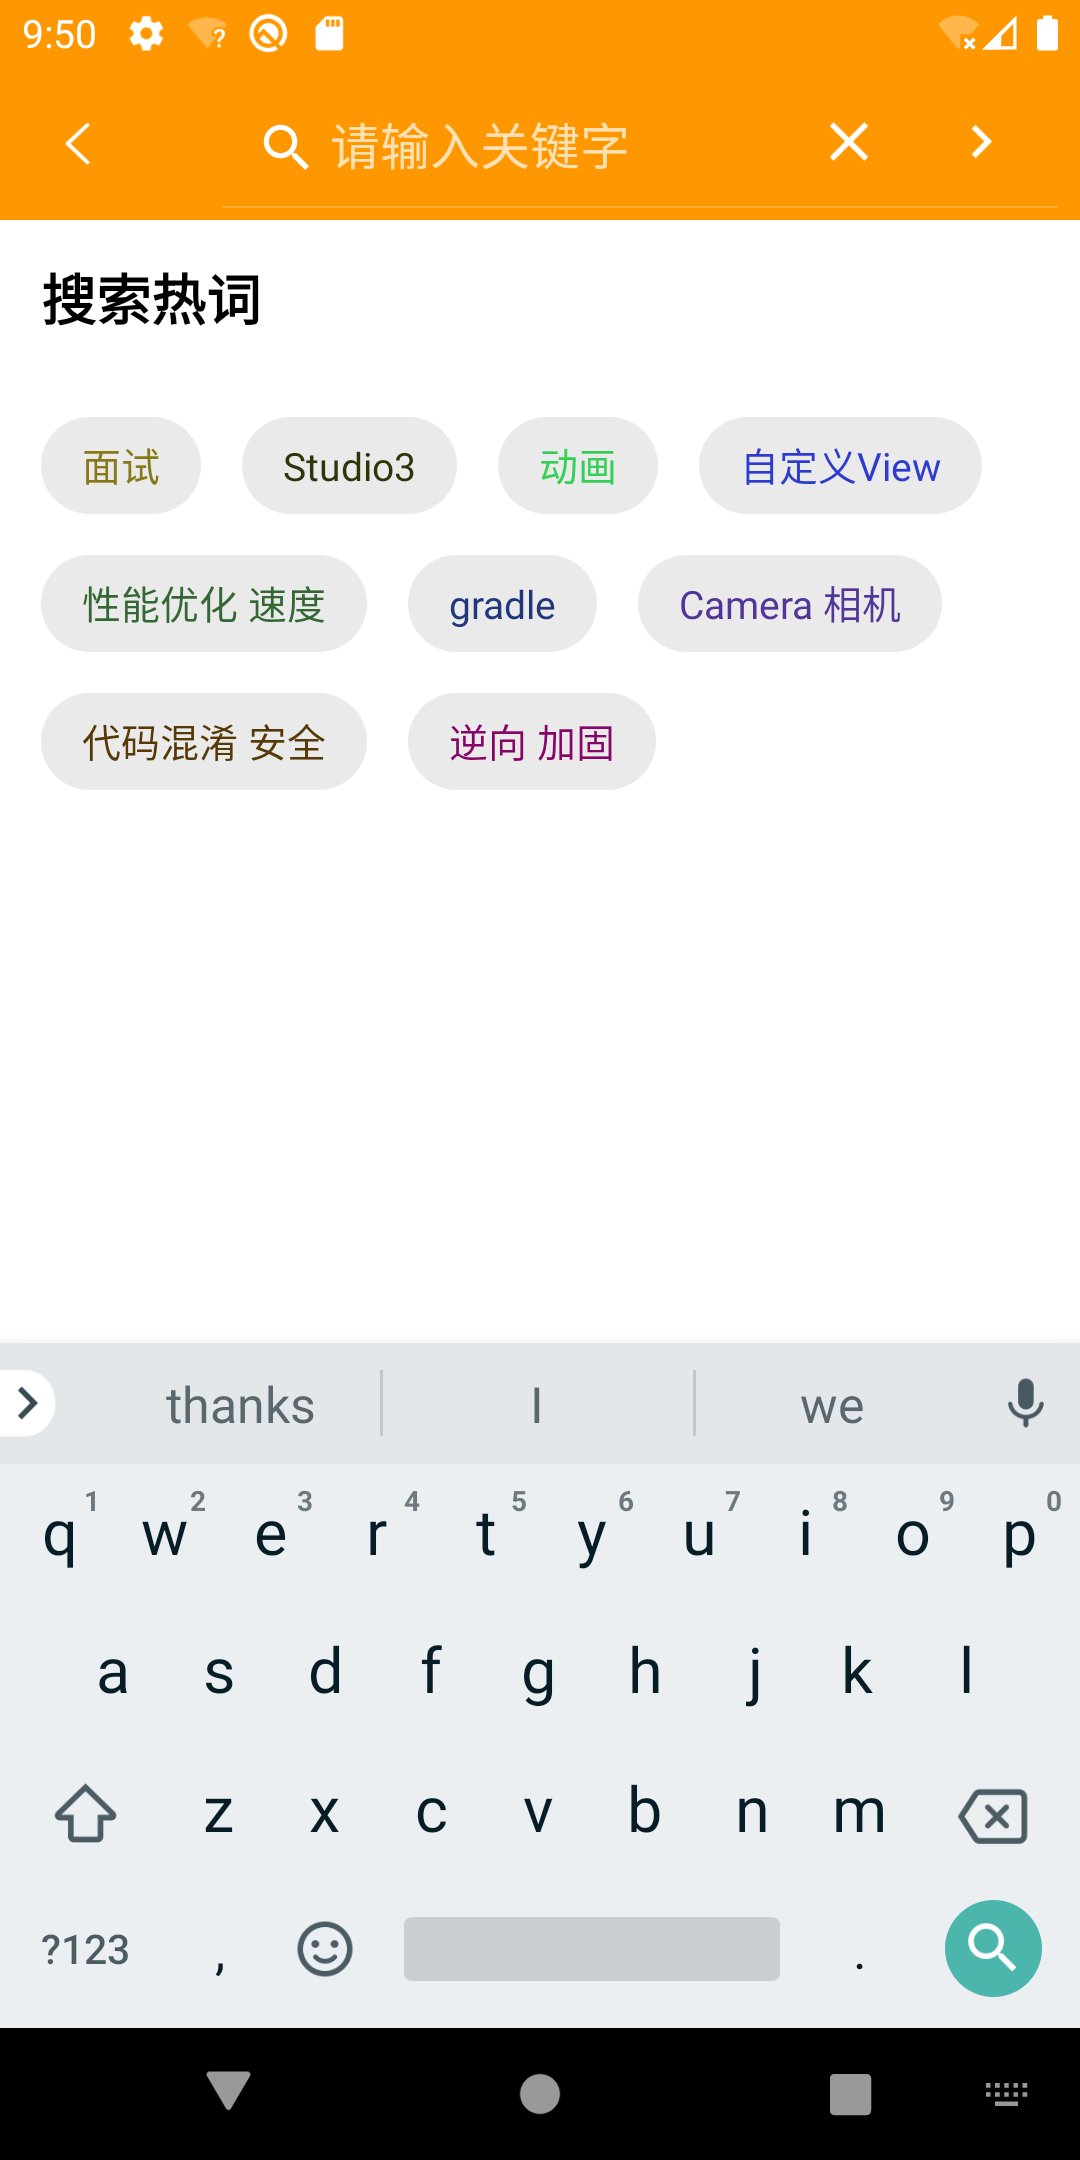
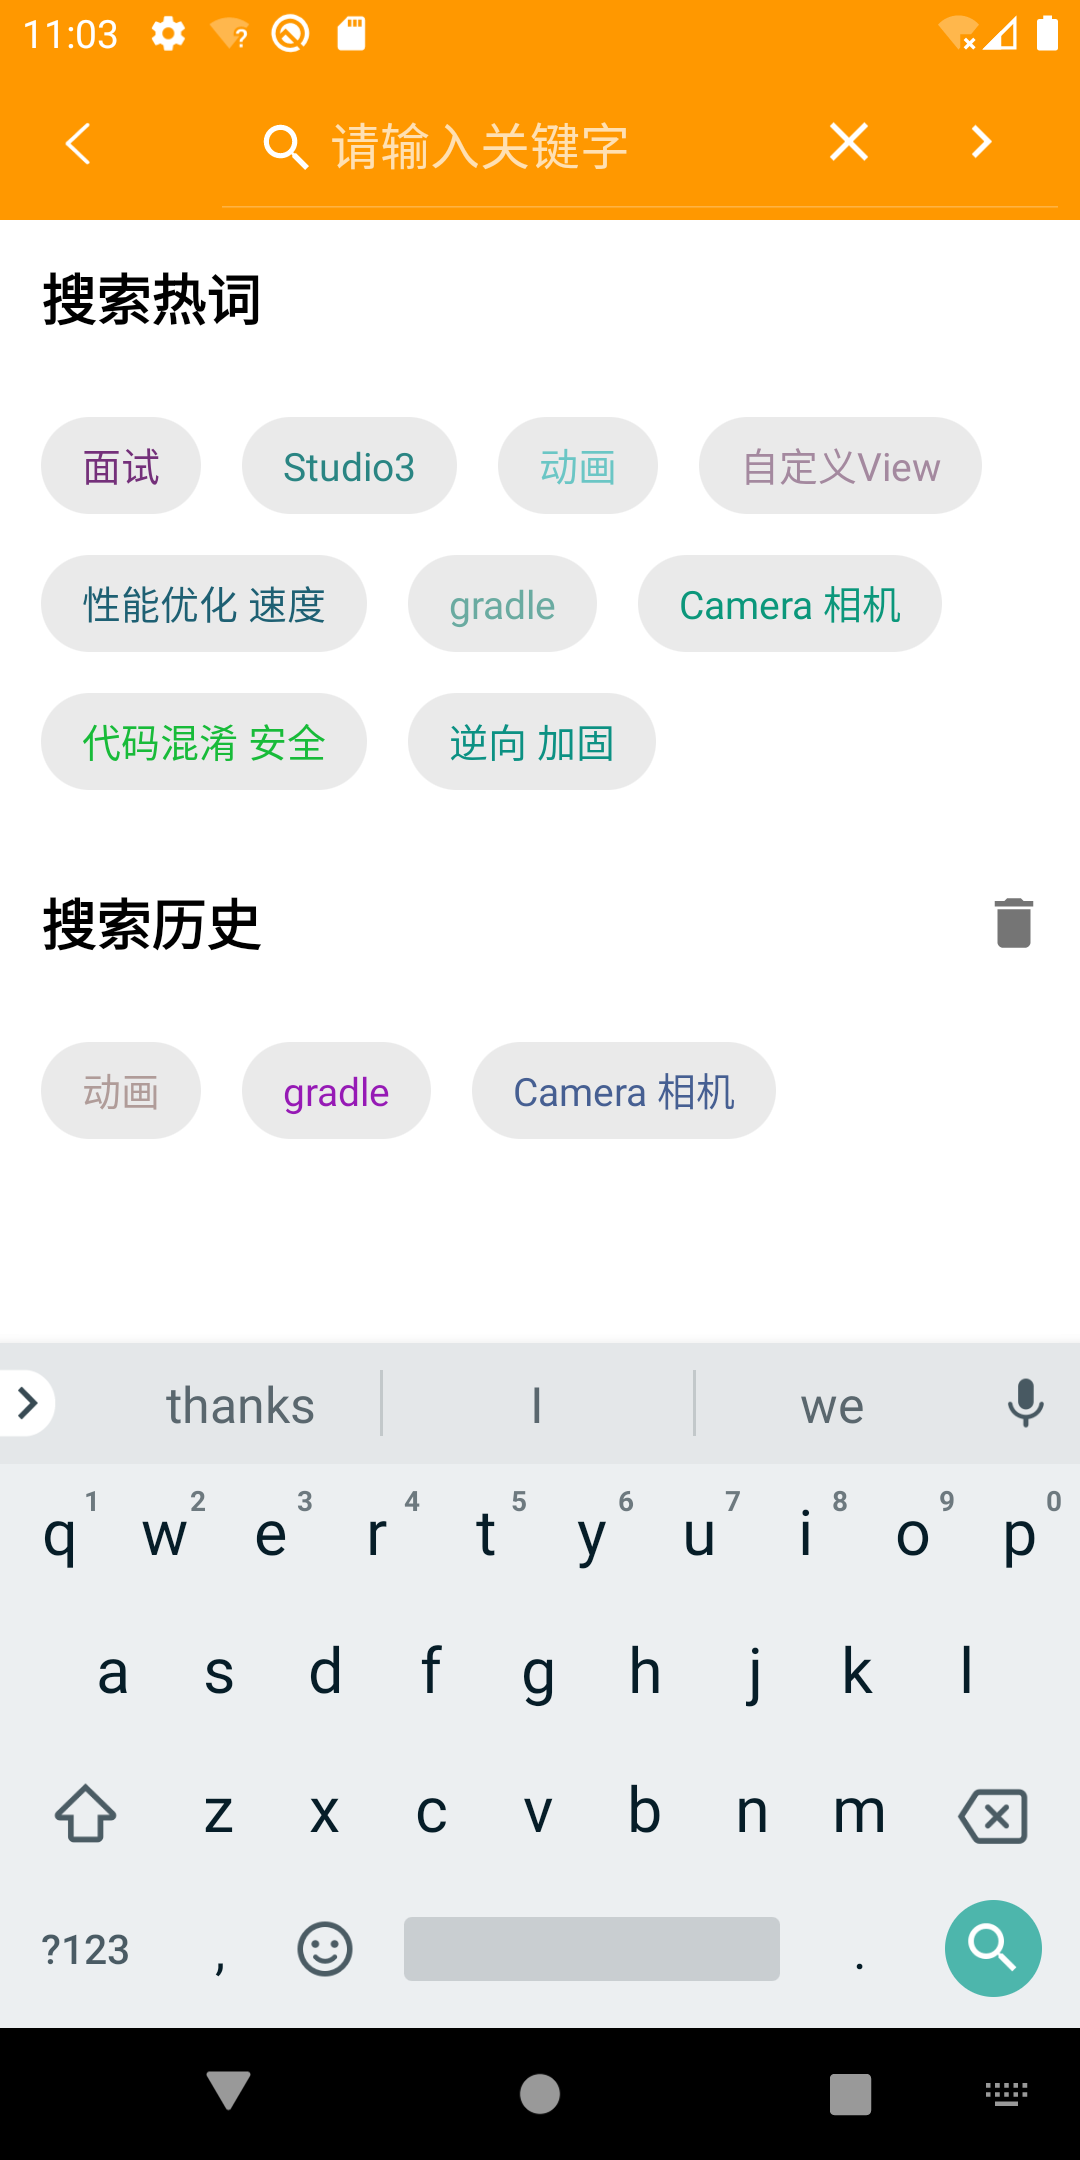
room、readme

diff --git a/app/src/main/java/com/yechaoa/wanandroid_jetpack/ui/search/SearchActivity.kt b/app/src/main/java/com/yechaoa/wanandroid_jetpack/ui/search/SearchActivity.kt
@@ -11,7 +11,10 @@ import androidx.appcompat.widget.SearchView
 import androidx.core.content.ContextCompat
 import com.yechaoa.wanandroid_jetpack.R
 import com.yechaoa.wanandroid_jetpack.base.BaseVmActivity
+import com.yechaoa.wanandroid_jetpack.data.bean.History
 import com.yechaoa.wanandroid_jetpack.data.bean.Hotkey
+import com.yechaoa.wanandroid_jetpack.data.room.HistoryDao
+import com.yechaoa.wanandroid_jetpack.data.room.HistoryDatabase
 import com.yechaoa.wanandroid_jetpack.databinding.ActivitySearchBinding
 import com.yechaoa.wanandroid_jetpack.ui.adapter.ArticleAdapter
 import com.yechaoa.wanandroid_jetpack.ui.detail.DetailActivity
@@ -19,6 +22,11 @@ import com.yechaoa.wanandroid_jetpack.util.randomColor
 import com.yechaoa.yutilskt.*
 import com.zhy.view.flowlayout.FlowLayout
 import com.zhy.view.flowlayout.TagAdapter
+import kotlinx.coroutines.Dispatchers
+import kotlinx.coroutines.MainScope
+import kotlinx.coroutines.flow.collect
+import kotlinx.coroutines.launch
+import kotlinx.coroutines.withContext
 import java.util.*
 
 class SearchActivity : BaseVmActivity<ActivitySearchBinding, SearchViewModel>() {
@@ -73,9 +81,45 @@ class SearchActivity : BaseVmActivity<ActivitySearchBinding, SearchViewModel>() 
         mBinding.recyclerView.adapter = mArticleAdapter
     }
 
+    private lateinit var mHistoryDao: HistoryDao
+
     override fun initData() {
         super.initData()
+        mHistoryDao = HistoryDatabase.getInstance(this).historyDao()
         mViewModel.getHotkey()
+        getSearchHistory()
+    }
+
+    private fun getSearchHistory() {
+        MainScope().launch(Dispatchers.IO) {
+            mHistoryDao.getAll().collect {
+                withContext(Dispatchers.Main) {
+                    if (it.isNotEmpty()) {
+                        mBinding.llHistory.visibility = View.VISIBLE
+                        setHistory(it)
+                    } else {
+                        mBinding.llHistory.visibility = View.GONE
+                    }
+                }
+            }
+        }
+    }
+
+    private fun saveSearchHistory(text: String) {
+        MainScope().launch(Dispatchers.IO) {
+            val id = mHistoryDao.queryIdByName(text)
+            if (null == id) {
+                mHistoryDao.insert(History(null, text, TimeUtil.dateAndTime))
+            } else {
+                mHistoryDao.update(History(id, text, TimeUtil.dateAndTime))
+            }
+        }
+    }
+
+    private fun cleanHistory() {
+        MainScope().launch(Dispatchers.IO) {
+            mHistoryDao.deleteAll()
+        }
     }
 
     private lateinit var mEditText: EditText
@@ -128,6 +172,7 @@ class SearchActivity : BaseVmActivity<ActivitySearchBinding, SearchViewModel>() 
             override fun onQueryTextSubmit(query: String): Boolean {
                 LogUtil.i("aaa", "搜索内容===$query")
                 mKey = query
+                saveSearchHistory(mKey)
                 mCurrentPage = 0 //重置分页，避免二次加载分页混乱
                 //搜索请求
                 mViewModel.getArticleList(mCurrentPage, mKey)
@@ -143,7 +188,7 @@ class SearchActivity : BaseVmActivity<ActivitySearchBinding, SearchViewModel>() 
     override fun observe() {
         super.observe()
         mViewModel.hotkeyList.observe(this, {
-            setFlowLayout(it)
+            setHotkey(it)
         })
 
         mViewModel.articleList.observe(this, {
@@ -181,14 +226,11 @@ class SearchActivity : BaseVmActivity<ActivitySearchBinding, SearchViewModel>() 
         })
     }
 
-    /**
-     * 填充FlowLayout数据
-     */
-    private fun setFlowLayout(list: MutableList<Hotkey>) {
-        mBinding.flowLayout.adapter = object : TagAdapter<Hotkey>(list) {
+    private fun setHotkey(list: MutableList<Hotkey>) {
+        mBinding.flowLayoutHot.adapter = object : TagAdapter<Hotkey>(list) {
             override fun getView(parent: FlowLayout, position: Int, s: Hotkey): View {
                 val tvTag = LayoutInflater.from(this@SearchActivity).inflate(
-                    R.layout.item_navi, mBinding.flowLayout, false
+                    R.layout.item_navi, mBinding.flowLayoutHot, false
                 ) as TextView
                 tvTag.text = s.name
                 tvTag.setTextColor(randomColor())
@@ -196,11 +238,36 @@ class SearchActivity : BaseVmActivity<ActivitySearchBinding, SearchViewModel>() 
             }
         }
         //设置点击事件
-        mBinding.flowLayout.setOnTagClickListener { _, position, _ ->
+        mBinding.flowLayoutHot.setOnTagClickListener { _, position, _ ->
             YUtils.closeSoftKeyboard()
             mKey = list[position].name
             //填充搜索框
             mEditText.setText(mKey)
+            saveSearchHistory(mKey)
+            mCurrentPage = 0 //重置分页，避免二次加载分页混乱
+            mViewModel.getArticleList(mCurrentPage, mKey)
+            return@setOnTagClickListener true
+        }
+    }
+
+    private fun setHistory(list: List<History>) {
+        mBinding.flowLayoutHistory.adapter = object : TagAdapter<History>(list) {
+            override fun getView(parent: FlowLayout, position: Int, s: History): View {
+                val tvTag = LayoutInflater.from(this@SearchActivity).inflate(
+                    R.layout.item_navi, mBinding.flowLayoutHistory, false
+                ) as TextView
+                tvTag.text = s.name
+                tvTag.setTextColor(randomColor())
+                return tvTag
+            }
+        }
+        //设置点击事件
+        mBinding.flowLayoutHistory.setOnTagClickListener { _, position, _ ->
+            YUtils.closeSoftKeyboard()
+            mKey = list[position].name!!
+            //填充搜索框
+            mEditText.setText(mKey)
+            saveSearchHistory(mKey)
             mCurrentPage = 0 //重置分页，避免二次加载分页混乱
             mViewModel.getArticleList(mCurrentPage, mKey)
             return@setOnTagClickListener true
@@ -211,6 +278,11 @@ class SearchActivity : BaseVmActivity<ActivitySearchBinding, SearchViewModel>() 
         super.setListener()
         mBinding.toolbar.setNavigationOnClickListener {
             super.onBackPressed()
+        }
+
+        mBinding.ivDelete.setOnClickListener {
+            cleanHistory()
+            mBinding.llHistory.visibility = View.GONE
         }
     }
 }

diff --git a/app/src/main/java/com/yechaoa/wanandroid_jetpack/data/room/HistoryDao.kt b/app/src/main/java/com/yechaoa/wanandroid_jetpack/data/room/HistoryDao.kt
@@ -20,7 +20,7 @@ interface HistoryDao {
      * @Query：查，此注解需要传入SQL语句作为参数，SQL语句用来限定查询的条件，注意如果是按条件删除数据等操作，也可以使用此注解来修饰。
      */
 
-    //按类型 查询所有搜索历史，时间倒序 1文章 2微课
+    //按类型 查询所有搜索历史，时间倒序 type类型 自己定
     @Query("SELECT * FROM t_history WHERE type=:type ORDER BY insert_time DESC")
     fun getAll(type: Int = 1): Flow<List<History>>
 

diff --git a/README.md b/README.md
@@ -15,13 +15,18 @@
 <br>
 
 # :fire:截图
-| <img src="/screenshot/home.png" width="285"/> | <img src="/screenshot/tree.png" width="285"/> | <img src="/screenshot/navi.png" width="285"/> | <img src="/screenshot/pro.png" width="285"/> |
-| :--: | :--: | :--: | :--: |
-| 首页 | 体系 | 导航 | 项目 |
+| <img src="/screenshot/home.png" width="285"/> | <img src="/screenshot/tree.png" width="285"/> | <img src="/screenshot/navi.png" width="285"/> |
+| :--: | :--: | :--: |
+| 首页 | 体系 | 导航 |
+
+| <img src="/screenshot/pro.png" width="285"/> | <img src="/screenshot/search.png" width="285"/> | <img src="/screenshot/about.png" width="285"/> |
+| :--: | :--: | :--: |
+| 项目 | 搜索 | 关于 |
 
 # :beers:你能学到
 
-* MVVM的开发架构、Jetpack组件的使用等
+* MVVM的开发架构
+* Jetpack组件的使用等
 * Kotlin语法特性、标准函数、扩展函数等
 * Material Design控件的使用等
 
@@ -41,12 +46,7 @@
 * [BRVAH](https://github.com/CymChad/BaseRecyclerViewAdapterHelper)
 * [flowlayout](https://github.com/hongyangAndroid/FlowLayout)
 
-# :pencil:Todo
-- [ ] 注册
-- [ ] 搜索
-
 <br>
-
 
 ```
    Copyright [2021] [yechaoa]
